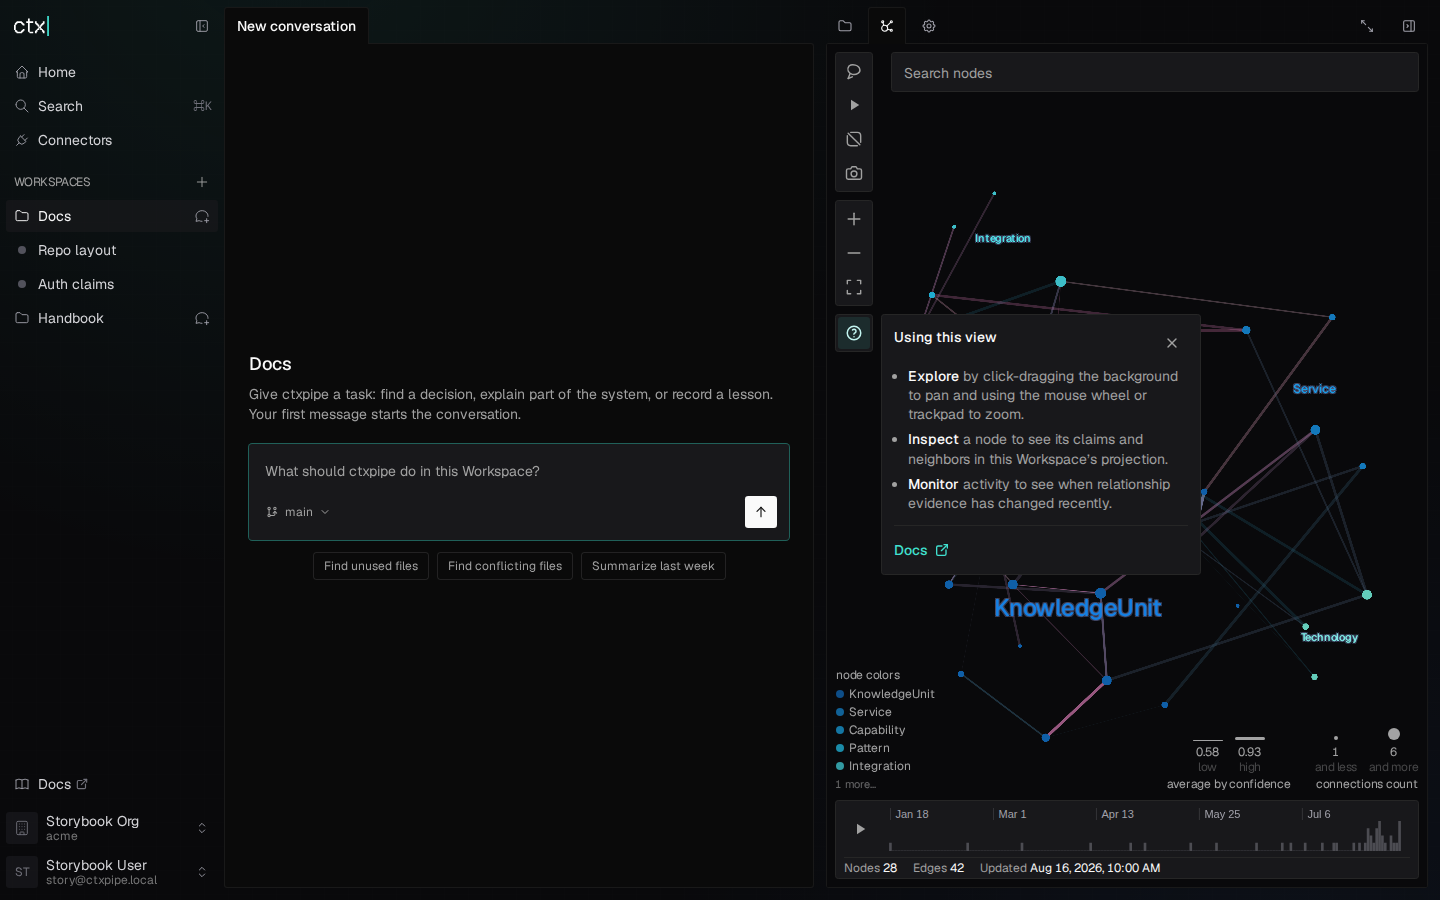
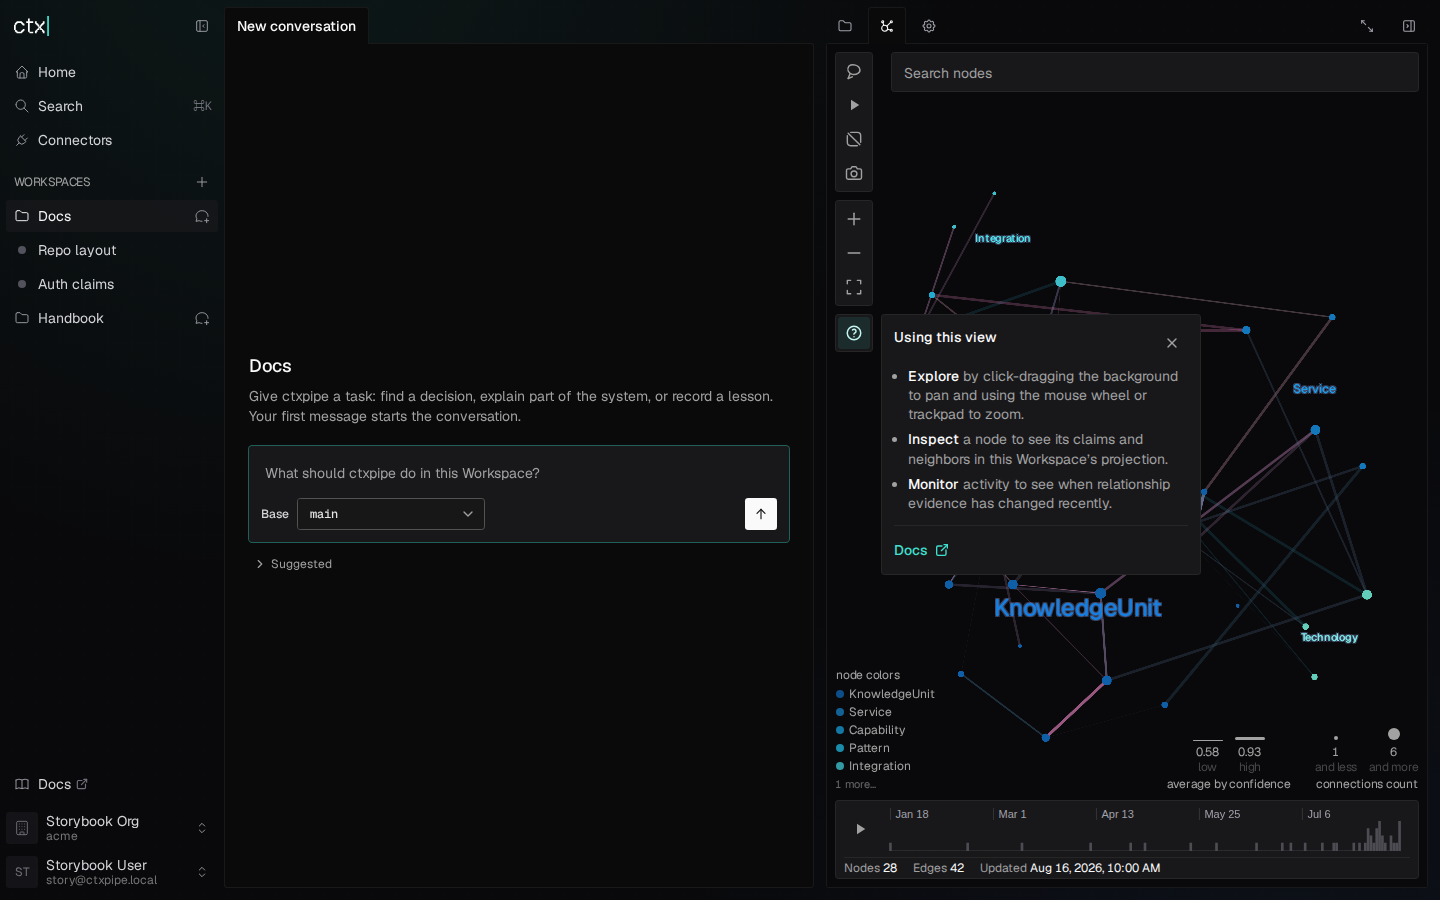
Chat composer: a base branch picked before the flag went off does not reach the server (CTX-1468)
With the knowledge_plane flag off, the composer now prepares and sends the
conversation with no base branch, also when the compose target keeps a
pick from an earlier visit. A story proves it through the prepare request.

Review fixes: the response schema takes the flag values from
FEATURE_VALUES, the mocks use the flag type of the API, and a comment
says why the menu error row is not an InlineAlert. The graph pane
baseline is the one of main again: this branch does not change the graph.

Changed region(s): [[0.1875, 0.56, 0.5, 0.6533], [0.1562, 0.4044, 0.5312, 0.5289], [0.3125, 0.4978, 0.375, 0.5289]]

diff --git a/apps/ui/src/features/workspaces/WorkspaceChat.stories.tsx b/apps/ui/src/features/workspaces/WorkspaceChat.stories.tsx
@@ -1,3 +1,4 @@
+import { useQueryClient } from "@tanstack/react-query"
 import { useNavigate, useParams } from "@tanstack/react-router"
 import { HttpResponse, http } from "msw"
 import { StrictMode, useState } from "react"
@@ -74,6 +75,56 @@ export const ComposeWithoutBaseBranchPicker = meta.story({
     const canvas = within(canvasElement)
     await canvas.findByRole("button", { name: "Find unused files" })
     expect(canvas.queryByRole("button", { name: /main/ })).toBeNull()
+  },
+})
+
+const stalePickPreparedBases: (string | undefined)[] = []
+
+/**
+ * The member picked a base branch in this composer, and then the
+ * knowledge_plane flag of the org went off. The kept pick does not reach the
+ * server: the conversation is prepared on the default branch.
+ */
+export const ComposeIgnoresPickWhenFlagIsOff = meta.story({
+  render: function Render(args) {
+    const queryClient = useQueryClient()
+    // The compose target that an earlier visit with the picker left.
+    useState(() =>
+      queryClient.setQueryData(
+        ["workspace-compose-conversation", args.orgSlug, args.workspace.id],
+        { conversationId: "conv_kept_pick", baseBranch: "release/2026-11" },
+      ),
+    )
+    return <WorkspaceChat {...args} />
+  },
+  parameters: {
+    visual: {
+      skip: "Behavior test: it ends in the same state as ComposeWithoutBaseBranchPicker.",
+    },
+  },
+  beforeEach: ({ msw }) => {
+    stalePickPreparedBases.length = 0
+    msw.use(
+      http.post(
+        ({ request }) =>
+          /\/api\/v1\/conversations\/conv_kept_pick\/prepare$/.test(
+            new URL(request.url).pathname,
+          ),
+        async ({ request }) => {
+          const body = (await request.json()) as { baseBranch?: string }
+          stalePickPreparedBases.push(body.baseBranch)
+          return new HttpResponse(null, { status: 204 })
+        },
+      ),
+      ...workspaceShellHandlers({ knowledgePlane: "off" }),
+    )
+  },
+  play: async ({ canvasElement }) => {
+    const canvas = within(canvasElement)
+    await canvas.findByRole("button", { name: "Find unused files" })
+    await waitFor(() => expect(stalePickPreparedBases).toContain(undefined))
+    expect(stalePickPreparedBases).not.toContain("release/2026-11")
+    expect(canvas.queryByRole("button", { name: /release/ })).toBeNull()
   },
 })
 

diff --git a/apps/ui/src/mocks/workspace-handlers.ts b/apps/ui/src/mocks/workspace-handlers.ts
@@ -19,6 +19,7 @@ import type {
   WorkspaceGitStatusResponse,
   WorkspaceGitTreeResponse,
   WorkspaceGraphPayload,
+  WorkspaceListResponse,
 } from "@/features/workspaces/types"
 import {
   docsConversationDetail,
@@ -69,7 +70,7 @@ const emptyPageInfo: PageInfo = {
 export function workspaceListHandler(
   items: MockState<Workspace[]>,
   lastUsedWorkspaceId?: string | null,
-  knowledgePlane: "off" | "shadow" | "on" = "on",
+  knowledgePlane: WorkspaceListResponse["knowledgePlane"] = "on",
 ) {
   return http.get(
     ({ request }) => /\/api\/v1\/workspaces$/.test(pathnameOf(request)),
@@ -632,7 +633,7 @@ export function workspaceShellHandlers(input?: {
   gitBlobs?: Record<string, string>
   gitStatus?: WorkspaceGitStatusResponse
   graph?: WorkspaceGraphPayload
-  knowledgePlane?: "off" | "shadow" | "on"
+  knowledgePlane?: WorkspaceListResponse["knowledgePlane"]
 }) {
   const workspaces = input?.workspaces ?? [docsWorkspace, readOnlyWorkspace]
   const detail = input && "detail" in input ? input.detail : docsWorkspaceDetail

diff --git a/apps/backend/src/routes/v1/workspaces.ts b/apps/backend/src/routes/v1/workspaces.ts
@@ -26,7 +26,7 @@ import {
   WORKSPACE_WRITE_STATUSES,
 } from "../../domain/workspaces/write-status.js"
 import { selectKnowledgeReader } from "../../knowledge-reader/knowledge-reader.js"
-import { getOrgFeature } from "../../models/org-features.js"
+import { FEATURE_VALUES, getOrgFeature } from "../../models/org-features.js"
 import { isRepositoryLostAccess } from "../../models/repositories.js"
 import { listWorkspaceUpgradeRows } from "../../models/workspace-upgrades.js"
 import {
@@ -132,7 +132,7 @@ const WorkspaceDetailSchema = WorkspaceSchema.extend({
 const ListWorkspacesResponseSchema = z
   .object({
     lastUsedWorkspaceId: z.string().nullable(),
-    knowledgePlane: z.enum(["off", "shadow", "on"]).openapi({
+    knowledgePlane: z.enum(FEATURE_VALUES.knowledge_plane).openapi({
       description:
         "The `knowledge_plane` flag of the org. The chat composer shows the base branch picker only when it is not `off`.",
     }),

diff --git a/apps/ui/src/features/workspaces/WorkspaceChat.tsx b/apps/ui/src/features/workspaces/WorkspaceChat.tsx
@@ -120,13 +120,15 @@ function WorkspaceComposeChat(props: {
     queryClient.setQueryData(composeKey, created)
     return created
   })
-  const { conversationId, baseBranch } = target
   // The base branch picker shows only when the org's knowledge_plane flag is
-  // not off. Without it, the conversation starts from the default branch.
+  // not off. Without it, the conversation starts from the default branch,
+  // also when the member picked a branch before the flag went off.
   const showBaseBranchPicker = useQuery({
     ...workspaceListOptions(orgSlug),
     select: (list) => list.knowledgePlane !== "off",
   }).data
+  const { conversationId } = target
+  const baseBranch = showBaseBranchPicker ? target.baseBranch : undefined
   useEffect(() => {
     void queryClient.prefetchQuery(
       workspaceChatPrepareOptions(

diff --git a/apps/ui/src/features/workspaces/BaseBranchPicker.tsx b/apps/ui/src/features/workspaces/BaseBranchPicker.tsx
@@ -177,6 +177,8 @@ export function BaseBranchPicker(props: {
             ))}
           </div>
         ) : branches.isError && !branches.data ? (
+          // Not InlineAlert: its red icon and alert role are too loud for
+          // one row of a menu, and the member can still send on the default.
           <div className="flex h-10 items-center gap-2 border-t border-white/10 pr-2.5 pl-4">
             <p className="min-w-0 flex-1 text-xs text-muted-foreground">
               The other branches did not load.

diff --git a/apps/backend/src/models/org-features.ts b/apps/backend/src/models/org-features.ts
@@ -6,7 +6,7 @@ import { orgFeatures } from "../db/schema/org_features.js"
 import { log } from "../observability/logger.js"
 
 /** The permitted values of each feature. The first value is the default. */
-const FEATURE_VALUES = {
+export const FEATURE_VALUES = {
   knowledge_plane: ["off", "shadow", "on"],
 } as const
 
